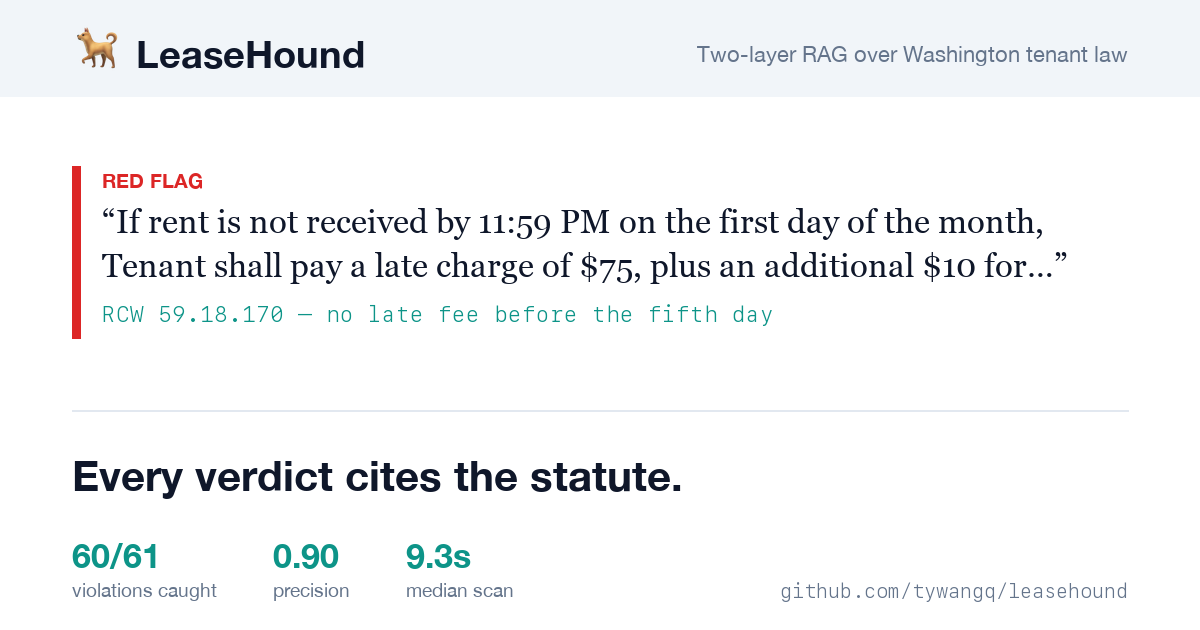
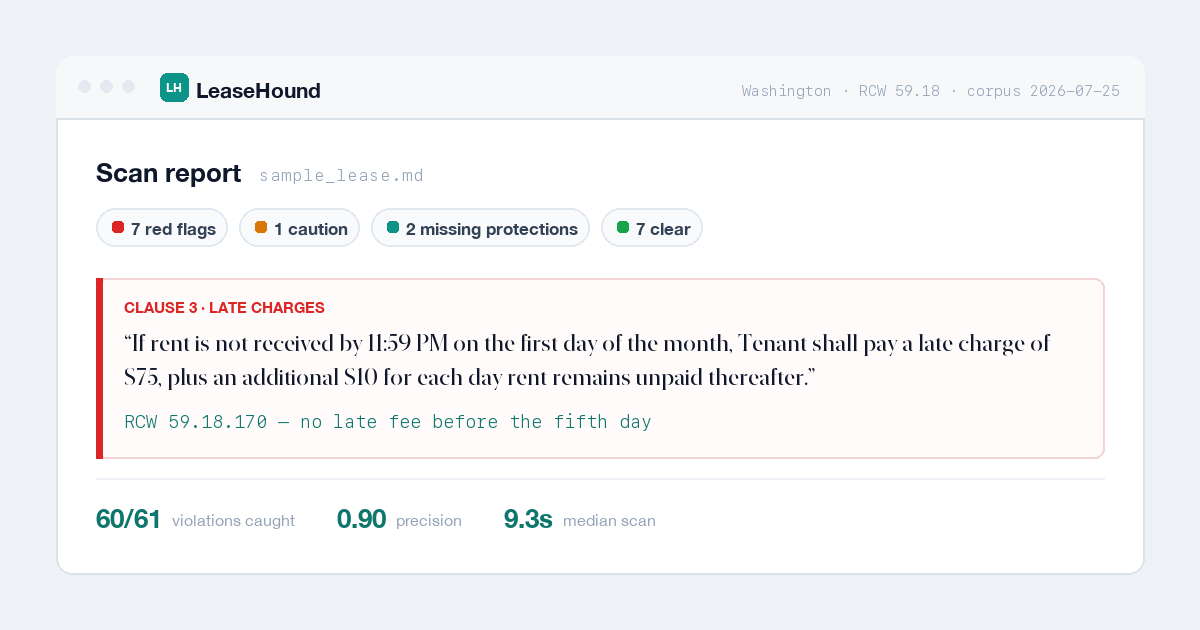
Draw the product's report surface on the share card
The old card described the scanner; this one shows it working — window chrome,
the verdict row, one flagged clause with the section it cites. Drawn rather than
screenshotted so the type survives the ~360px LinkedIn renders it at, and the 🐕
favicon gives way to a drawn monogram: an emoji renders differently on every
platform that scrapes this, and reads as a hobby project on all of them.

The verdict counts are the one thing not derived, and the reason is worth
keeping. scan_results.json looked like the source, but its flagged_yellow counts
planted violations that came back yellow — not cautions on ordinary clauses —
so reading it that way put "0 cautions" on a card whose product reports one.
The counts now live in app.py with that history, and the two fields the artifact
genuinely does cover are cross-checked at build time, so a card and an
evaluation that disagree fail instead of shipping.

Changed region(s): [[0.0308, 0.2413, 0.9558, 0.9651], [0.0617, 0.0302, 0.9558, 0.2111], [0.5858, 0.0603, 0.925, 0.1508]]

diff --git a/scripts/make_og.py b/scripts/make_og.py
@@ -4,11 +4,20 @@ Why a generated card and not the app screenshot: LinkedIn, Slack and Twitter all
 crop share images to roughly 1.91:1. docs/screenshot.png is 1.42:1, so a quarter
 of its height was being cut, and at card size its UI text was unreadable anyway.
 
-The card shows one real finding rather than describing the product, because a
-scanner that claims to cite its sources should be able to show one. Nothing on it
-is typed here: the wording comes from app.py's social constants, the clause from
-examples/sample_lease.md, and the three numbers from evaluation/. A card that
-could drift from the evidence behind it would be the wrong card for this repo.
+The card draws the product's own report surface rather than describing the
+product, because a scanner whose whole claim is that it cites its sources should
+be able to show one doing it. Drawn rather than screenshotted so the type stays
+crisp at the ~360px LinkedIn actually renders.
+
+Almost nothing on it is typed here: the wording comes from app.py's social
+constants, the clause from examples/sample_lease.md, and the headline three from
+evaluation/. The one exception is the verdict row, and the reason is instructive.
+The obvious source, scan_results.json, has a `flagged_yellow` field — but it
+counts planted violations that came back yellow, not cautions on ordinary
+clauses, and reading it as the latter put "0 cautions" on a card whose product
+reports one. The counts live in app.py with that history recorded, and the two
+the artifact genuinely does cover are cross-checked here so a card and an
+evaluation that disagree fail the build rather than ship.
 
     python scripts/make_og.py
 """
@@ -26,16 +35,19 @@ APP = ROOT / "leasehound" / "app.py"
 LEASE = ROOT / "examples" / "sample_lease.md"
 EVAL = ROOT / "evaluation"
 OUT = ROOT / "docs" / "og.png"
-PAW = ROOT / "leasehound" / "assets" / "favicon.png"
 
 W, H = 1200, 630
-PAD = 72
-BG, BAND = "#ffffff", "#f1f5f9"
-INK, MUTED, TEAL, RED, RULE = "#0f172a", "#64748b", "#0d9488", "#dc2626", "#e2e8f0"
+PAD = 56
+PAGE = "#eef2f6"
+CARD, CHROME, EDGE = "#ffffff", "#f6f8fa", "#dbe2ea"
+INK, BODY, MUTED = "#0f172a", "#334155", "#94a3b8"
+TEAL, TEAL_D = "#0d9488", "#0f766e"
+RED, RED_BG, RED_EDGE = "#dc2626", "#fffbfb", "#f4d4d4"
+AMBER, GREEN = "#d97706", "#16a34a"
 
 SANS = "/System/Library/Fonts/HelveticaNeue.ttc"
 MONO = "/System/Library/Fonts/SFNSMono.ttf"
-SERIF = "/System/Library/Fonts/Supplemental/Georgia.ttf"
+SERIF = "/System/Library/Fonts/NewYork.ttf"
 
 
 def font(path: str, size: int, index: int = 0) -> ImageFont.FreeTypeFont:
@@ -53,6 +65,61 @@ def constant(name: str) -> str:
         ):
             return ast.literal_eval(node.value)
     raise SystemExit(f"{name} not found in {APP.relative_to(ROOT)}")
+
+
+def sample_scan() -> dict:
+    """The stored scan of the lease whose clause this card quotes."""
+    leases = json.loads((EVAL / "scan_results.json").read_text())["leases"]
+    for entry in leases:
+        if Path(entry["file"]).name == LEASE.name:
+            return entry
+    raise SystemExit(f"no stored scan of {LEASE.name} in scan_results.json")
+
+
+def chips() -> list[tuple[str, str]]:
+    """The report's own verdict row, in the app's colour order.
+
+    Read from app.py rather than from scan_results.json. That artifact has
+    `flagged_red` and `protections_expected`, which agree with the report, but its
+    `flagged_yellow` counts something else — planted violations that came back
+    yellow, not cautions on ordinary clauses — and reading it as the caution count
+    put "0 cautions" on a card whose product shows one. The counts app.py carries
+    are checked against the running app; see the comment beside CARD_VERDICTS.
+    """
+    palette = {"red": RED, "caution": AMBER, "missing": TEAL, "clear": GREEN}
+    out = []
+    for part in constant("CARD_VERDICTS").split("|"):
+        label = part.strip()
+        colour = next((c for k, c in palette.items() if k in label), TEAL)
+        out.append((colour, label))
+    # Cross-check the two the artifact does cover, so a card and an evaluation
+    # that disagree fail the build instead of shipping.
+    scan = sample_scan()
+    for count, word in [(len(scan["flagged_red"]), "red flags"),
+                        (len(scan["protections_expected"]), "missing protections")]:
+        if f"{count} {word}" not in constant("CARD_VERDICTS"):
+            raise SystemExit(
+                f"CARD_VERDICTS disagrees with scan_results.json: expected "
+                f"{count} {word}"
+            )
+    return out
+
+
+def evidence() -> list[tuple[str, str]]:
+    """The headline three, recomputed from the evaluation output on every build."""
+    synth = json.loads((EVAL / "synthetic_results.json").read_text())["summary"]
+    cost = json.loads((EVAL / "scan_cost_summary.json").read_text())["all_scans"]
+    planted = synth["planted_violations"]
+    return [
+        (f"{round(planted * synth['strict_recall'])}/{planted}", "violations caught"),
+        (f"{synth['precision']:.2f}", "precision"),
+        (f"{cost['p50_seconds']:g}s", "median scan"),
+    ]
+
+
+def corpus_line() -> str:
+    prov = json.loads((EVAL / "scan_cost_summary.json").read_text())["provenance"]
+    return f"Washington · RCW 59.18 · corpus {prov['corpus_snapshot']}"
 
 
 def clause_excerpt(draw, fnt, width: int, lines: int = 2) -> list[str]:
@@ -73,7 +140,6 @@ def clause_excerpt(draw, fnt, width: int, lines: int = 2) -> list[str]:
     out, line = [], ""
     for word in body.split():
         trial = f"{line} {word}".strip()
-        # Leave room for the closing quote and ellipsis on the final line.
         room = width - (34 if len(out) == lines - 1 else 0)
         if draw.textlength(trial, font=fnt) <= room:
             line = trial
@@ -85,66 +151,74 @@ def clause_excerpt(draw, fnt, width: int, lines: int = 2) -> list[str]:
     if len(out) < lines and line:
         out.append(line)
     out = out[:lines]
-    consumed = len(" ".join(out).split())
-    if consumed < len(body.split()):
+    if len(" ".join(out).split()) < len(body.split()):
         out[-1] = out[-1].rstrip(",") + "…"
     out[0] = "“" + out[0]
     out[-1] = out[-1] + "”"
     return out
 
 
-def evidence() -> list[tuple[str, str]]:
-    """The three numbers, recomputed from the evaluation output on every build."""
-    synth = json.loads((EVAL / "synthetic_results.json").read_text())["summary"]
-    cost = json.loads((EVAL / "scan_cost_summary.json").read_text())["all_scans"]
-    planted = synth["planted_violations"]
-    caught = round(planted * synth["strict_recall"])
-    return [
-        (f"{caught}/{planted}", "violations caught"),
-        (f"{synth['precision']:.2f}", "precision"),
-        (f"{cost['p50_seconds']:g}s", "median scan"),
-    ]
+def monogram(d, x, y, size):
+    """A drawn mark, not the 🐕 favicon: an emoji renders differently on every
+    platform that scrapes this card, and reads as a hobby project on all of them.
+    """
+    d.rounded_rectangle([x, y, x + size, y + size], radius=size * 0.26, fill=TEAL)
+    f = font(SANS, int(size * 0.46), 1)
+    d.text((x + (size - d.textlength("LH", font=f)) / 2, y + size * 0.25), "LH",
+           font=f, fill="#ffffff")
 
 
 def main() -> None:
-    name = constant("SOCIAL_TITLE").partition("—")[0].strip()
-    # The description's em dash is its hinge; the card keeps only the promise.
-    promise = constant("SOCIAL_DESCRIPTION").partition("—")[2].strip().capitalize()
-
-    img = Image.new("RGB", (W, H), BG)
+    img = Image.new("RGB", (W, H), PAGE)
     d = ImageDraw.Draw(img)
+    bx, by = PAD, PAD
+    bw, bh = W - PAD * 2, H - PAD * 2
 
-    d.rectangle([0, 0, W, 96], fill=BAND)
-    paw = Image.open(PAW).convert("RGBA").resize((50, 50), Image.LANCZOS)
-    img.paste(paw, (PAD, 24), paw)
-    d.text((PAD + 64, 30), name, font=font(SANS, 38, 1), fill=INK)
-    stack, sf = constant("SOCIAL_STACK"), font(SANS, 22)
-    d.text((W - PAD - d.textlength(stack, font=sf), 41), stack, font=sf, fill=MUTED)
+    d.rounded_rectangle([bx, by, bx + bw, by + bh], radius=16, fill=CARD, outline=EDGE, width=2)
+    d.rounded_rectangle([bx, by, bx + bw, by + 62], radius=16, fill=CHROME)
+    d.rectangle([bx, by + 46, bx + bw, by + 62], fill=CHROME)
+    d.line([bx, by + 62, bx + bw, by + 62], fill=EDGE, width=2)
+    for i in range(3):
+        d.ellipse([bx + 22 + i * 22, by + 24, bx + 34 + i * 22, by + 36], fill="#e5eaf0")
 
-    y = 166
-    d.rectangle([PAD, y, PAD + 8, y + 172], fill=RED)
-    d.text((PAD + 30, y + 2), "RED FLAG", font=font(SANS, 20, 1), fill=RED)
-    quote = font(SERIF, 33)
-    for i, line in enumerate(clause_excerpt(d, quote, W - PAD * 2 - 30)):
-        d.text((PAD + 30, y + 36 + i * 44), line, font=quote, fill=INK)
-    d.text((PAD + 30, y + 134), constant("CARD_CITATION"), font=font(MONO, 22), fill=TEAL)
+    monogram(d, bx + 104, by + 17, 28)
+    d.text((bx + 140, by + 21), constant("SOCIAL_TITLE").partition("—")[0].strip(),
+           font=font(SANS, 21, 1), fill=INK)
+    tag, tf = corpus_line(), font(MONO, 15)
+    d.text((bx + bw - 24 - d.textlength(tag, font=tf), by + 25), tag, font=tf, fill=MUTED)
 
-    y += 244
-    d.line([PAD, y, W - PAD, y], fill=RULE, width=2)
+    ix, right = bx + 40, bx + bw - 40
+    title_f = font(SANS, 26, 1)
+    d.text((ix, by + 100), "Scan report", font=title_f, fill=INK)
+    d.text((ix + d.textlength("Scan report", font=title_f) + 18, by + 108),
+           LEASE.name, font=font(MONO, 17), fill=MUTED)
 
-    y += 40
-    d.text((PAD, y), promise, font=font(SANS, 42, 1), fill=INK)
+    cx, cf = ix, font(SANS, 17, 1)
+    for colour, label in chips():
+        wide = d.textlength(label, font=cf) + 46
+        d.rounded_rectangle([cx, by + 152, cx + wide, by + 190], radius=19,
+                            fill="#f8fafc", outline="#e2e8f0", width=2)
+        d.rounded_rectangle([cx + 16, by + 165, cx + 27, by + 176], radius=3, fill=colour)
+        d.text((cx + 35, by + 162), label, font=cf, fill=BODY)
+        cx += wide + 12
 
-    y += 84
-    num_f, lab_f = font(SANS, 34, 1), font(SANS, 19)
-    x = PAD
+    fy = by + 222
+    d.rounded_rectangle([ix, fy, right, fy + 180], radius=10, fill=RED_BG,
+                        outline=RED_EDGE, width=2)
+    d.rectangle([ix, fy, ix + 6, fy + 180], fill=RED)
+    d.text((ix + 28, fy + 20), "CLAUSE 3 · LATE CHARGES", font=font(SANS, 15, 1), fill=RED)
+    quote = font(SERIF, 24)
+    for i, line in enumerate(clause_excerpt(d, quote, right - ix - 60)):
+        d.text((ix + 28, fy + 50 + i * 34), line, font=quote, fill=INK)
+    d.text((ix + 28, fy + 132), constant("CARD_CITATION"), font=font(MONO, 18), fill=TEAL_D)
+
+    y = by + bh - 72
+    d.line([ix, y - 24, right, y - 24], fill=PAGE, width=2)
+    x, nf, lf = ix, font(SANS, 26, 1), font(SANS, 16)
     for value, label in evidence():
-        d.text((x, y), value, font=num_f, fill=TEAL)
-        d.text((x, y + 44), label, font=lab_f, fill=MUTED)
-        x += max(d.textlength(value, font=num_f), d.textlength(label, font=lab_f)) + 56
-
-    url, uf = "github.com/tywangq/leasehound", font(MONO, 20)
-    d.text((W - PAD - d.textlength(url, font=uf), y + 44), url, font=uf, fill=MUTED)
+        d.text((x, y), value, font=nf, fill=TEAL_D)
+        d.text((x + d.textlength(value, font=nf) + 10, y + 8), label, font=lf, fill=MUTED)
+        x += d.textlength(value, font=nf) + d.textlength(label, font=lf) + 52
 
     img.save(OUT, optimize=True)
     print(f"{OUT.relative_to(ROOT)}  {img.width}x{img.height}  {OUT.stat().st_size // 1024} KB")

diff --git a/leasehound/app.py b/leasehound/app.py
@@ -913,6 +913,17 @@ SOCIAL_STACK = "Two-layer RAG over Washington tenant law"
 # of that lease returns; it is the pairing recorded in docs/screenshot.png.
 CARD_CLAUSE_HEADING = "3. LATE CHARGES."
 CARD_CITATION = "RCW 59.18.170 — no late fee before the fifth day"
+# The verdict counts the report shows for that lease. Not derived, and the reason
+# is worth recording: evaluation/scan_results.json has `flagged_yellow`, but that
+# field means "planted violations that came back yellow" — a different quantity
+# from "cautions in the report", which lands in `cautions` (eval_scan.py:123) and
+# is written out as `unplanted_yellows`. That field was added after the stored
+# artifact was generated, so the artifact cannot supply this count today. The
+# clear count is not arithmetic either: 7+1+7 exceeds the numbered lines in the
+# lease, because the scanner's clause splitting is not a regex over "N.".
+# These are what the live app returns, the same run recorded in docs/screenshot.png.
+# Re-derive from `unplanted_yellows` the next time the scan eval is re-run.
+CARD_VERDICTS = "7 red flags | 1 caution | 2 missing protections | 7 clear"
 # Matched by attribute rather than by exact string: Gradio emits these twice, in two
 # blocks, and wraps some of them across lines, so a literal replacement caught the
 # titles and left og:image pointing at Gradio's own banner. An empty value here means
